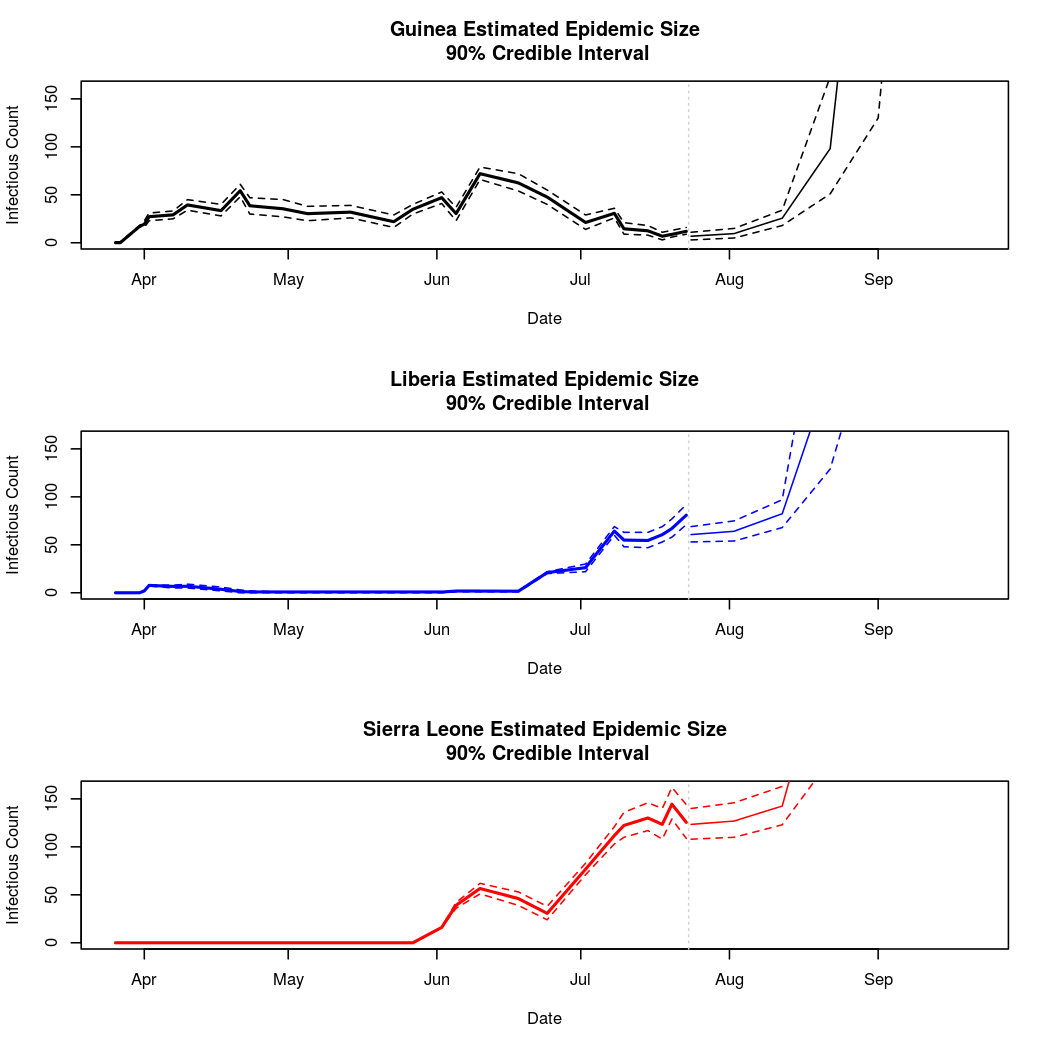
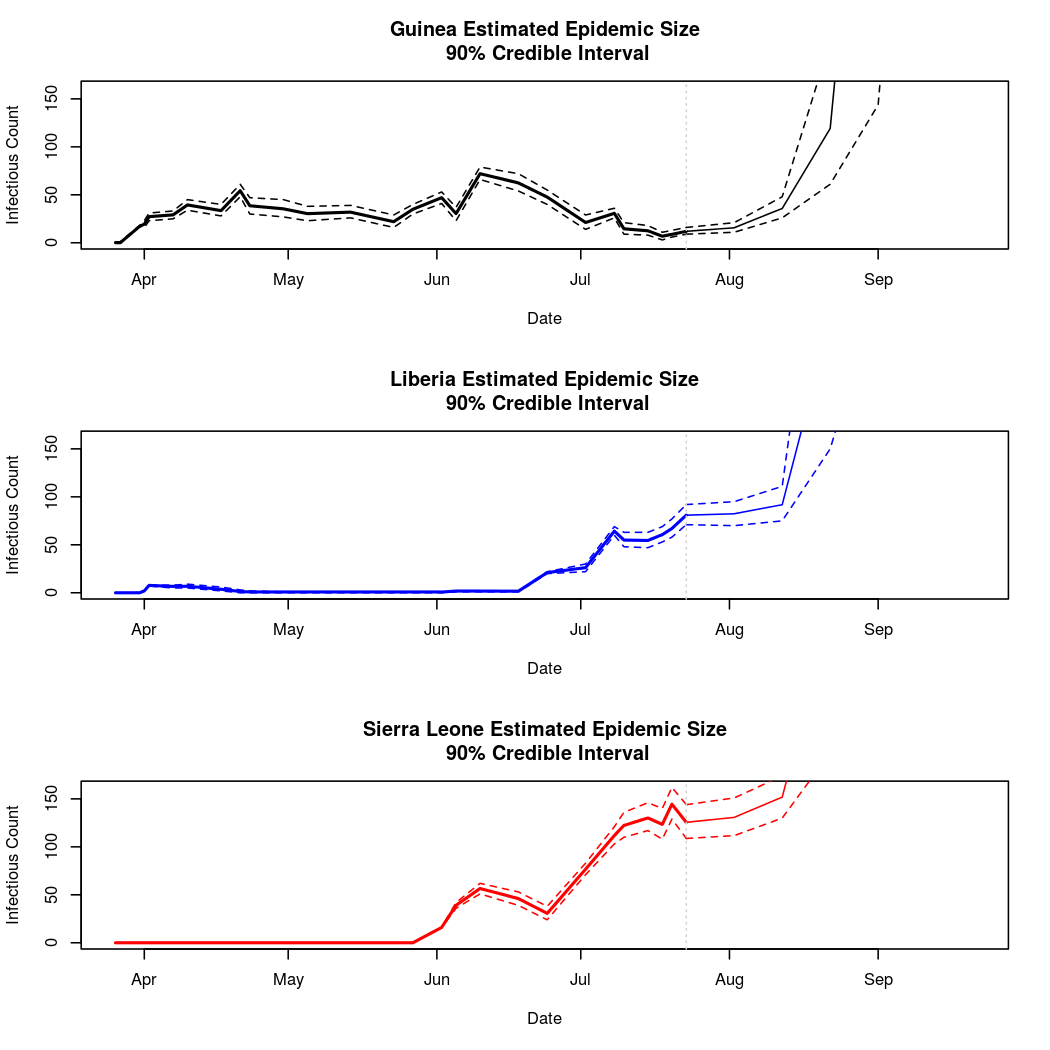
Update hosted ebola analysis

Changed region(s): [[0.64, 0.0914, 0.8229, 0.2438], [0.64, 0.4267, 0.7924, 0.5181], [0.64, 0.7314, 0.7619, 0.7924]]

diff --git a/doc/tutorials/Ebola2014/Ebola2014.html b/doc/tutorials/Ebola2014/Ebola2014.html
@@ -274,7 +274,7 @@ These represent cumulative counts, but because case reports can be revised downw
          <span class="hl kwc">lty</span><span class="hl std">=</span><span class="hl num">1</span><span class="hl std">,</span> <span class="hl kwc">lwd</span> <span class="hl std">=</span> <span class="hl num">2</span><span class="hl std">,</span>
          <span class="hl kwc">ylim</span> <span class="hl std">= ylim,</span> <span class="hl kwc">type</span> <span class="hl std">=</span> <span class="hl str">&quot;l&quot;</span>
          <span class="hl std">)</span>
-    <span class="hl kwd">abline</span><span class="hl std">(</span><span class="hl kwc">h</span> <span class="hl std">=</span> <span class="hl kwd">seq</span><span class="hl std">(</span><span class="hl num">1</span><span class="hl std">,</span> <span class="hl kwd">max</span><span class="hl std">(ylim),</span> <span class="hl num">10</span><span class="hl std">),</span> <span class="hl kwc">lty</span> <span class="hl std">=</span> <span class="hl num">2</span><span class="hl std">,</span> <span class="hl kwc">col</span> <span class="hl std">=</span> <span class="hl str">&quot;lightgrey&quot;</span><span class="hl std">)</span>
+    <span class="hl kwd">abline</span><span class="hl std">(</span><span class="hl kwc">h</span> <span class="hl std">=</span> <span class="hl kwd">seq</span><span class="hl std">(</span><span class="hl num">0</span><span class="hl std">,</span> <span class="hl num">50</span><span class="hl std">,</span> <span class="hl num">5</span><span class="hl std">),</span> <span class="hl kwc">lty</span> <span class="hl std">=</span> <span class="hl num">2</span><span class="hl std">,</span> <span class="hl kwc">col</span> <span class="hl std">=</span> <span class="hl str">&quot;lightgrey&quot;</span><span class="hl std">)</span>
     <span class="hl kwd">lines</span><span class="hl std">(rptDate, InfectionPerDay[,</span><span class="hl num">2</span><span class="hl std">],</span> <span class="hl kwc">col</span> <span class="hl std">=</span> <span class="hl str">&quot;blue&quot;</span><span class="hl std">,</span><span class="hl kwc">lty</span><span class="hl std">=</span><span class="hl num">2</span><span class="hl std">,</span> <span class="hl kwc">lwd</span> <span class="hl std">=</span> <span class="hl num">2</span><span class="hl std">)</span>
     <span class="hl kwd">lines</span><span class="hl std">(rptDate, InfectionPerDay[,</span><span class="hl num">3</span><span class="hl std">],</span> <span class="hl kwc">col</span> <span class="hl std">=</span> <span class="hl str">&quot;red&quot;</span><span class="hl std">,</span> <span class="hl kwc">lty</span> <span class="hl std">=</span> <span class="hl num">3</span><span class="hl std">,</span> <span class="hl kwc">lwd</span> <span class="hl std">=</span> <span class="hl num">2</span><span class="hl std">)</span>
     <span class="hl kwd">par</span><span class="hl std">(</span><span class="hl kwc">xaxt</span><span class="hl std">=</span><span class="hl str">&quot;n&quot;</span><span class="hl std">)</span>
@@ -1725,10 +1725,12 @@ chartParams.element = document.getElementById('zoom_map')
       <h3>Compartmental Models</h3>
       </a>
       <p>
-        Now that we've got data read in and made a couple of plots to ensure we haven't done anything to terribly stupid with it
+        Now that the data is read in (and now that we have several plots to suggest that we haven't done anything to terribly stupid with it)
         , let's do some compartmental epidemic modeling. Not only has Ebola been <a href="http://www.ncbi.nlm.nih.gov/pubmed/17156292">well modeled in the past</a> using compartmental modeling techniques, but this author happens to be working on a software library designed to fit compartmental models in the spatial SEIRS family. What a strange coincidence! Specifically, we'll be using heirarchical Bayesian estimation methods to fit a spatial SEIR model to the data.  
+        </p>
         <br/>
-        
+        <br/>
+        <p>
         While a full treatment of this field of epidemic modeling is (far) beyond the scope of this writing, the basic idea is pretty intuitive. In order to come up with a simplified model of a disease process, discrete disease states (aka, compartments) are defined. The most common of these are S, E, I, and R which stand for:<br>
       </p>
       <ul>
@@ -1738,8 +1740,10 @@ chartParams.element = document.getElementById('zoom_map')
         <li><strong>R</strong>emoved or recovered</li>
       </ul>
   <p>
-    This sequence traversed by members of a population (S to E to I to R) forms what we might call the temporal process model of our analysis. This analysis belongs to the stochastic branch of the compartmental modeling family, which has its roots in deterministic systems of ordinary and partial differential equations. In this framework, transitions between the compartments occur according to unknown probabilities. It is the S to E probability, which captures infection activity, into which we introduce spatial structure. Some details of this are given as comments to the code below, and more information than you probably want on the statistical particulars is available in <a href="https://github.com/grantbrown/libspatialSEIR/blob/master/doc/models/SEIR_Algo.pdf">this pdf document</a>. For now, suffice it to say that we'll place a simple spatial structure on the epidemic process which simply allows disease to spread between the three nations involved, and we'll try to estimate the strength of that relationship. Many other potential structures are possible, limited primarily by the ammount of additional research and data compilation you are willing to do. <br/>
-We're not going to do anything fancy with demographic information or public health intervention dates. Demographic parameters are relatively difficult to estimate here, as there are only three spatial units which are all from the same region. Intervention dates are more promising, but their inclusion requires much more background research than we have time for here. In the interest of simplicity and estimability, we'll just fit a different disease intensity parameter for each of the three countries in addition to as a set of basis functions to capture the temporal trend. 
+    This sequence, traversed by members of a population (S to E to I to R), forms what we might call the temporal process model of our analysis. This analysis belongs to the stochastic branch of the compartmental modeling family, which has its roots in deterministic systems of ordinary and partial differential equations. In the stochastic framework, transitions between the compartments occur according to unknown probabilities. It is the S to E probability, which captures infection activity, into which we introduce spatial structure. Some details of this are given as comments to the code below, and more information than you probably want on the statistical particulars is available in <a href="https://github.com/grantbrown/libspatialSEIR/blob/master/doc/models/Ebola2014Analysis.pdf">this pdf document</a>. For now, suffice it to say that we'll place a simple spatial structure on the epidemic process which simply allows disease to spread between the three nations involved, and we'll try to estimate the strength of that relationship. Many other potential structures are possible, limited primarily by the amount of additional research and data compilation one is willing to do. </p><br/><br/>
+<p>
+For the purposes of this analysis, we will not do anything fancy with demographic information or public health intervention dates. Demographic parameters are relatively difficult to estimate here, as there are only three spatial units which are all from the same region. Intervention dates are more promising, but their inclusion requires much more background research than we have time for here. In the interest of simplicity and estimability, we'll just fit a different disease intensity parameter for each of the three countries to capture aggregate differences in Ebola susceptibility in addition to using a set of basis functions to capture the 
+temporal trend. 
   </p>
     </div>
     <div class="col-sm-1">
@@ -1757,8 +1761,8 @@ We're not going to do anything fancy with demographic information or public heal
   </p>
   <ol>
     <li>The population sizes need to be determined.</li>
-    <li>Initial values for the four compartments must be determined.<li>
-    <li>The time points are not evenly spaced, so we need to define appropriate offset values to capture the ammount of aggregation performed (time between reports).</li>
+    <li>Initial values for the four compartments must be determined.</li>
+    <li>The time points are not evenly spaced, so we need to define appropriate offset values to capture the amount of aggregation performed (time between reports).</li>
     <li>We must define the spatial correlation structure.</li>
     <li>A set of basis functions needs to be chosen to capture the temporal trend.</li>
     <li>Prior parameters and parameter staring values must be specified for each <a href="http://en.wikipedia.org/wiki/Markov_chain_Monte_Carlo">chain.</a></li>
@@ -1767,6 +1771,7 @@ We're not going to do anything fancy with demographic information or public heal
   <p>
   Compartment starting values follow the usual convention of letting the entire initial population be divided into susceptibles and infectious individuals. The starting value for the number of infectious individuals was 86, the first infection count available in the data. Offsets are actually calculated in the first code block (above) as the differences between the report times. For temporal basis functions, orthogonal polynomials of degree three were used. Prior parameters for the E to I and I to R transitions were chosen based on well documented values for the average latent and infectious times, and the rest of the prior parameters were left vague. These decisions are addressed in more detail as comments to the code below. 
   </p>
+  <br/>
 <button class="btn btn-default code-button">Show/Hide Code Block</button>
       <div class="code-and-output-block" style="display:none">
 <div class="chunk" id="unnamed-chunk-9"><div class="rcode"><div class="source"><pre class="knitr r"><span class="hl com"># Define the simple &quot;distance&quot; matrix. There are 3 countries, all of which </span>
@@ -1933,7 +1938,7 @@ We're not going to do anything fancy with demographic information or public heal
 <p>
   With the set up out of the way, we can finally build the models. In order to assess convergence, we'll make three model objects - one for each MCMC run. 
 </p>
-      
+<br/>  
 <button class="btn btn-default code-button">Show/Hide Code Block</button>
       <div class="code-and-output-block" style="display:none">
 <div class="chunk" id="unnamed-chunk-10"><div class="rcode"><div class="source"><pre class="knitr r"><span class="hl std">SEIRmodels</span> <span class="hl kwb">=</span> <span class="hl kwd">list</span><span class="hl std">()</span>
@@ -2032,7 +2037,7 @@ We're not going to do anything fancy with demographic information or public heal
 <p>
   With the model objects created, we may perform some some short runs in order to choose sensible Metropolis tuning parameters. The following script uses the runSimulation function defined in the previous code block to do just that. 
 </p>
-      
+<br/>
 <button class="btn btn-default code-button">Show/Hide Code Block</button>
       <div class="code-and-output-block" style="display:none">
 <div class="chunk" id="unnamed-chunk-11"><div class="rcode"><div class="source"><pre class="knitr r"><span class="hl kwa">for</span> <span class="hl std">(i</span> <span class="hl kwa">in</span> <span class="hl num">1</span><span class="hl opt">:</span><span class="hl kwd">length</span><span class="hl std">(SEIRmodels))</span>
@@ -2082,7 +2087,7 @@ We're not going to do anything fancy with demographic information or public heal
       
 <p>Using these tuning parameters, we can now run the chains until convergence. 
 As before, we'll adjust the tuning parameters along the way. Astute readers may notice the frankly inconvenient number of samples requested, and will correctly infer that autocorrelation is currently a major problem for this library. While such autocorrelation does not impact the validity of estimates based on the converged chains, it does increase the required computation time. This is an area of active development for libspatialSEIR.</p>  
-      
+ <br/>    
 <button class="btn btn-default code-button">Show/Hide Code Block</button>
       <div class="code-and-output-block" style="display:none">
 <div class="chunk" id="unnamed-chunk-12"><div class="rcode"><div class="source"><pre class="knitr r"><span class="hl kwa">for</span> <span class="hl std">(i</span> <span class="hl kwa">in</span> <span class="hl num">1</span><span class="hl opt">:</span><span class="hl kwd">length</span><span class="hl std">(SEIRmodels))</span>
@@ -2099,11 +2104,11 @@ As before, we'll adjust the tuning parameters along the way. Astute readers may 
 <span class="hl std">}</span>
 </pre></div>
 <div class="output"><pre class="knitr r">## Running chain 1
-## Time elapsed: 13.974 minutes
+## Time elapsed: 14.233 minutes
 ## Running chain 2
-## Time elapsed: 13.987 minutes
+## Time elapsed: 14.005 minutes
 ## Running chain 3
-## Time elapsed: 14.088 minutes
+## Time elapsed: 14.168 minutes
 </pre></div>
 </div></div>
 </div>
@@ -2116,7 +2121,7 @@ indication that the samplers have indeed converged to the posterior distribution
 problem at hand. In the code below, we'll read in the MCMC output files created so far, plot the three chains for each of 
 several important parameters, and take a look at the Gelman and Rubin convergence diagnostic (which should be close to 1 if the chains have converged.)
 </p>
-
+<br/>
 <button class="btn btn-default code-button">Show/Hide Code Block</button>
       <div class="code-and-output-block" style="display:none">
 <div class="chunk" id="unnamed-chunk-13"><div class="rcode"><div class="source"><pre class="knitr r"><span class="hl com"># Read in the output files created above</span>
@@ -2194,7 +2199,7 @@ several important parameters, and take a look at the Gelman and Rubin convergenc
 <p>
   The convergence looks quite reasonable, so let's dissect the estimates a bit. 
 </p>
-
+<br/>
 <a id="analysis-1-estimates-sect" class="anchor">
 <h3>Estimated Epidemic Behavior</h3>
 </a>
@@ -2285,12 +2290,14 @@ and
 
  9.4 
 
-days. In reality, there is a lot 
+ (95% credible intervals). In reality, there is a lot 
 of variability in these times for Ebola, but these seem like reasonable estimates for the average values. <br/>
-
-We also notice that there is definitely non-zero spatial dependence (the distribution of the spatial dependence parameter is well separated from zero), indicating reasonably strong mixing between the populations. This is unsurprising, as the disease has in fact spread between all three nations. 
-<br/>
-
+</p><br/>
+<p>
+We also notice that there is definitely non-zero spatial dependence (the distribution of the spatial dependence parameter is well separated from zero), indicating significant mixing between the populations. This is unsurprising, as the disease has in fact spread between all three nations. 
+</p>
+<br/><br/>
+<p>
 It also appears that Guinea has the lowest estimated epidemic intensity, followed by Sierra Leone and Liberia, which have similar credible
 intervals for their intercept parameters.
 </p>
@@ -2342,8 +2349,8 @@ intervals for their intercept parameters.
 <h3>Basic Reproductive Number Calculation</h3>
 </a>
 <p>
-A common tool for describing the development and containment of an epidemic is a quantity known as the basic reproductive numer, or the basic reproductive ratio, or one of several other variants on that theme. The basic idea is to quantify how many secondary infections each infectious individual is expected to cause in a large, fully susceptible population. Naturally, when this ratio exceeds one we expect the epidemic to spread. Conversely, a basic reproductive number less than one indicates that a pathogen is more likely to die out. This software library doesn't yet compute the ratio automatically, but does provide what's known as the "next generation matrix" which can be used to quickly calculate the quantity. <br/>
-
+A common tool for describing the evolution of an epidemic is a quantity known as the basic reproductive numer, the basic reproductive ratio, or one of several other variants on that theme. The basic idea is to quantify how many secondary infections a single infectious individual is expected to cause in a large, fully susceptible population. Naturally, when this ratio exceeds one we expect the epidemic to spread. Conversely, a basic reproductive number less than one indicates that a pathogen is more likely to die out. This software library doesn't yet compute the ratio automatically, but does provide what's known as the "next generation matrix" which can be used to quickly calculate the quantity.</p> <br/><br/>
+<p>
 In addition to coming up with a point estimate of the ratio, it is helpful to quantify the uncertainty in the estimates obtained. The code below draws additional samples from the posterior distribution in order to estimate this uncertainty.
 </p>
 
@@ -2384,7 +2391,7 @@ In addition to coming up with a point estimate of the ratio, it is helpful to qu
 
 <div class="chunk" id="unnamed-chunk-25"><div class="rimage center"><img src="figure/unnamed-chunk-25.png" title="plot of chunk unnamed-chunk-25" alt="plot of chunk unnamed-chunk-25" class="plot" /></div></div>
 
-The dip in recent days in the estimated basic reproductive ratio is definitely a hopeful sign that public health interventions and education efforts have begun to change the epidemic dynamics. Notice, on the other hand, the high variability in May. This is an interesting result, and perhaps reflects the seemingly contradicting information from Guinea (where the epidemic continued to spread) and Liberia (where the epidemic briefly disappeared).<br/>
+The dip in recent days in the estimated basic reproductive ratio is definitely a hopeful sign that public health interventions and education efforts have begun to change the epidemic dynamics. Notice, on the other hand, the high variability throughout May. This is an interesting result, and perhaps reflects the seemingly contradicting information from Guinea (where the epidemic continued to spread) and Liberia (where the epidemic briefly disappeared).<br/>
 
 While the basic reproductive number is a useful quantity to know, it does not directly make any predictions about future epidemic behavior. In order to do that, we need to simulate epidemics  based on the MCMC samples we have obtained and summarize their variability over time. <br/>
  
@@ -2394,7 +2401,7 @@ While the basic reproductive number is a useful quantity to know, it does not di
 </a>
 <p>
  
- Currently the simulation required for epidemic prediction must be done "manually" by writing a bunch of R code. As the library develops, a simpler prediction interface is a high priority.  <br/> Below, we will attempt to predict the course of the epidemic through early fall. 
+ Currently the simulation required for epidemic prediction must be done "manually" by writing a bunch of R code. As the library develops, a simpler prediction interface is a high priority.  </p><br/><br/><p> Below, we will attempt to predict the course of the epidemic through early fall. 
  We must be cautious when making predictions about a chaotic process this far into the future. We must be particularly cautious because the basis chosen for the temporal trend in the epidemic intensity process was polynomial. While polynomial bases often provide a good fit to the data, they can behave unreasonably outside the range over which the model was fit (quadratic and cubic terms can get large very quickly). 
 </p>
 
@@ -2468,18 +2475,23 @@ While the basic reproductive number is a useful quantity to know, it does not di
              <span class="hl std">dataRow</span><span class="hl opt">$</span><span class="hl std">BetaP_SE_3,</span>
              <span class="hl std">dataRow</span><span class="hl opt">$</span><span class="hl std">BetaP_SE_4,</span>
              <span class="hl std">dataRow</span><span class="hl opt">$</span><span class="hl std">BetaP_SE_5)</span>
-    <span class="hl std">S0</span> <span class="hl kwb">=</span> <span class="hl kwd">c</span><span class="hl std">(dataRow</span><span class="hl opt">$</span><span class="hl std">S_0_23</span> <span class="hl opt">-</span> <span class="hl std">dataRow</span><span class="hl opt">$</span><span class="hl std">E_star_0_23,</span>
-           <span class="hl std">dataRow</span><span class="hl opt">$</span><span class="hl std">S_1_23</span> <span class="hl opt">-</span> <span class="hl std">dataRow</span><span class="hl opt">$</span><span class="hl std">E_star_1_23,</span>
-           <span class="hl std">dataRow</span><span class="hl opt">$</span><span class="hl std">S_2_23</span> <span class="hl opt">-</span> <span class="hl std">dataRow</span><span class="hl opt">$</span><span class="hl std">E_star_2_23)</span>
-    <span class="hl std">E0</span> <span class="hl kwb">=</span> <span class="hl kwd">c</span><span class="hl std">(dataRow</span><span class="hl opt">$</span><span class="hl std">E_0_23</span> <span class="hl opt">+</span> <span class="hl std">dataRow</span><span class="hl opt">$</span><span class="hl std">E_star_0_23</span> <span class="hl opt">-</span> <span class="hl std">dataRow</span><span class="hl opt">$</span><span class="hl std">I_star_0_23,</span>
-           <span class="hl std">dataRow</span><span class="hl opt">$</span><span class="hl std">E_1_23</span> <span class="hl opt">+</span> <span class="hl std">dataRow</span><span class="hl opt">$</span><span class="hl std">E_star_1_23</span> <span class="hl opt">-</span> <span class="hl std">dataRow</span><span class="hl opt">$</span><span class="hl std">I_star_1_23,</span>
-           <span class="hl std">dataRow</span><span class="hl opt">$</span><span class="hl std">E_2_23</span> <span class="hl opt">+</span> <span class="hl std">dataRow</span><span class="hl opt">$</span><span class="hl std">E_star_2_23</span> <span class="hl opt">-</span> <span class="hl std">dataRow</span><span class="hl opt">$</span><span class="hl std">I_star_2_23)</span>
-    <span class="hl std">I0</span> <span class="hl kwb">=</span> <span class="hl kwd">c</span><span class="hl std">(dataRow</span><span class="hl opt">$</span><span class="hl std">I_0_23</span> <span class="hl opt">+</span> <span class="hl std">dataRow</span><span class="hl opt">$</span><span class="hl std">I_star_0_23</span> <span class="hl opt">-</span> <span class="hl std">dataRow</span><span class="hl opt">$</span><span class="hl std">R_star_0_23,</span>
-           <span class="hl std">dataRow</span><span class="hl opt">$</span><span class="hl std">I_1_23</span> <span class="hl opt">+</span> <span class="hl std">dataRow</span><span class="hl opt">$</span><span class="hl std">I_star_1_23</span> <span class="hl opt">-</span> <span class="hl std">dataRow</span><span class="hl opt">$</span><span class="hl std">R_star_1_23,</span>
-           <span class="hl std">dataRow</span><span class="hl opt">$</span><span class="hl std">I_2_23</span> <span class="hl opt">+</span> <span class="hl std">dataRow</span><span class="hl opt">$</span><span class="hl std">I_star_2_23</span> <span class="hl opt">-</span> <span class="hl std">dataRow</span><span class="hl opt">$</span><span class="hl std">R_star_2_23)</span>
-    <span class="hl std">R0</span> <span class="hl kwb">=</span> <span class="hl kwd">c</span><span class="hl std">(dataRow</span><span class="hl opt">$</span><span class="hl std">R_0_23</span> <span class="hl opt">+</span> <span class="hl std">dataRow</span><span class="hl opt">$</span><span class="hl std">R_star_0_23,</span>
-           <span class="hl std">dataRow</span><span class="hl opt">$</span><span class="hl std">R_1_23</span> <span class="hl opt">+</span> <span class="hl std">dataRow</span><span class="hl opt">$</span><span class="hl std">R_star_1_23,</span>
-           <span class="hl std">dataRow</span><span class="hl opt">$</span><span class="hl std">R_2_23</span> <span class="hl opt">+</span> <span class="hl std">dataRow</span><span class="hl opt">$</span><span class="hl std">R_star_2_23)</span>
+    <span class="hl com">#S0 = c(dataRow$S_0_26 - dataRow$E_star_0_26,</span>
+    <span class="hl com">#       dataRow$S_1_26 - dataRow$E_star_1_26,</span>
+    <span class="hl com">#       dataRow$S_2_26 - dataRow$E_star_2_26)</span>
+    <span class="hl com">#E0 = c(dataRow$E_0_26 + dataRow$E_star_0_26 - dataRow$I_star_0_26,</span>
+    <span class="hl com">#       dataRow$E_1_26 + dataRow$E_star_1_26 - dataRow$I_star_1_26,</span>
+    <span class="hl com">#       dataRow$E_2_26 + dataRow$E_star_2_26 - dataRow$I_star_2_26)</span>
+    <span class="hl com">#I0 = c(dataRow$I_0_26 + dataRow$I_star_0_26 - dataRow$R_star_0_26,</span>
+    <span class="hl com">#       dataRow$I_1_26 + dataRow$I_star_1_26 - dataRow$R_star_1_26,</span>
+    <span class="hl com">#       dataRow$I_2_26 + dataRow$I_star_2_26 - dataRow$R_star_2_26)</span>
+    <span class="hl com">#R0 = c(dataRow$R_0_26 + dataRow$R_star_0_26,</span>
+    <span class="hl com">#       dataRow$R_1_26 + dataRow$R_star_1_26,</span>
+    <span class="hl com">#       dataRow$R_2_26 + dataRow$R_star_2_26)</span>
+    <span class="hl std">S0</span> <span class="hl kwb">=</span> <span class="hl kwd">c</span><span class="hl std">(dataRow</span><span class="hl opt">$</span><span class="hl std">S_0_26,dataRow</span><span class="hl opt">$</span><span class="hl std">S_1_26,dataRow</span><span class="hl opt">$</span><span class="hl std">S_2_26)</span>
+    <span class="hl std">E0</span> <span class="hl kwb">=</span> <span class="hl kwd">c</span><span class="hl std">(dataRow</span><span class="hl opt">$</span><span class="hl std">E_0_26,dataRow</span><span class="hl opt">$</span><span class="hl std">E_1_26,dataRow</span><span class="hl opt">$</span><span class="hl std">E_2_26)</span>
+    <span class="hl std">I0</span> <span class="hl kwb">=</span> <span class="hl kwd">c</span><span class="hl std">(dataRow</span><span class="hl opt">$</span><span class="hl std">I_0_26,dataRow</span><span class="hl opt">$</span><span class="hl std">I_1_26,dataRow</span><span class="hl opt">$</span><span class="hl std">I_2_26)</span>
+    <span class="hl std">R0</span> <span class="hl kwb">=</span> <span class="hl kwd">c</span><span class="hl std">(dataRow</span><span class="hl opt">$</span><span class="hl std">R_0_26,dataRow</span><span class="hl opt">$</span><span class="hl std">R_1_26,dataRow</span><span class="hl opt">$</span><span class="hl std">R_2_26)</span>
+
     <span class="hl kwd">return</span><span class="hl std">(</span><span class="hl kwd">predictEpidemic</span><span class="hl std">(beta,</span>
                            <span class="hl std">X.pred,</span>
                            <span class="hl std">dataRow</span><span class="hl opt">$</span><span class="hl std">gamma_ei,</span>
@@ -2498,7 +2510,7 @@ While the basic reproductive number is a useful quantity to know, it does not di
 
 
 
-<span class="hl std">pred.dates</span> <span class="hl kwb">=</span> <span class="hl kwd">c</span><span class="hl std">(rptDate[(</span><span class="hl kwd">which.max</span><span class="hl std">(rptDate))]</span> <span class="hl opt">+</span> <span class="hl num">1</span><span class="hl std">,</span>
+<span class="hl std">pred.dates</span> <span class="hl kwb">=</span> <span class="hl kwd">c</span><span class="hl std">(rptDate[(</span><span class="hl kwd">which.max</span><span class="hl std">(rptDate))],</span>
                <span class="hl std">rptDate[(</span><span class="hl kwd">which.max</span><span class="hl std">(rptDate))]</span> <span class="hl opt">+</span> <span class="hl kwd">seq</span><span class="hl std">(</span><span class="hl num">10</span><span class="hl std">,</span><span class="hl num">60</span><span class="hl std">,</span><span class="hl num">10</span><span class="hl std">))</span>
 <span class="hl std">pred.xlim</span> <span class="hl kwb">=</span> <span class="hl kwd">c</span><span class="hl std">(</span><span class="hl kwd">min</span><span class="hl std">(rptDate),</span> <span class="hl kwd">max</span><span class="hl std">(pred.dates))</span>
 <span class="hl std">lastIdx</span> <span class="hl kwb">=</span> <span class="hl kwd">nrow</span><span class="hl std">(SEIRmodels[[</span><span class="hl num">1</span><span class="hl std">]]</span><span class="hl opt">$</span><span class="hl std">I)</span>
@@ -2585,6 +2597,7 @@ While the basic reproductive number is a useful quantity to know, it does not di
 <div class="chunk" id="unnamed-chunk-27"><div class="rimage center"><img src="figure/unnamed-chunk-27.png" title="plot of chunk unnamed-chunk-27" alt="plot of chunk unnamed-chunk-27" class="plot" /></div></div>
 
 <p>It looks like our worries about polynomial basis functions were well founded. While these predictions are likely acceptable for several days or weeks after the currently available data, they clearly become dominated by higher order polynomial terms as time goes on. The behavior of the epidemic so far does not support these large swings in epidemic behavior, so we can be fairly certain that these long term predictions are extrapolation errors. Analysis 2 will consider the results of using a natural spline basis for this process instead. Spline bases extrapolate linearly, and so are less prone to extreme extrapolation errors. 
+</p><br/>
     </div>
     <div class="col-sm-1">
   </div>
@@ -2746,11 +2759,11 @@ While the basic reproductive number is a useful quantity to know, it does not di
 <span class="hl std">}</span>
 </pre></div>
 <div class="output"><pre class="knitr r">## Running in chain 1
-## Time elapsed: 14.077 minutes
+## Time elapsed: 14.087 minutes
 ## Running in chain 2
-## Time elapsed: 14.071 minutes
+## Time elapsed: 14.104 minutes
 ## Running in chain 3
-## Time elapsed: 14.002 minutes
+## Time elapsed: 14.159 minutes
 </pre></div>
 <div class="source"><pre class="knitr r"><span class="hl std">chain1</span> <span class="hl kwb">=</span> <span class="hl kwd">read.csv</span><span class="hl std">(</span><span class="hl str">&quot;chain_output_ebola_4.txt&quot;</span><span class="hl std">)</span>
 <span class="hl std">chain2</span> <span class="hl kwb">=</span> <span class="hl kwd">read.csv</span><span class="hl std">(</span><span class="hl str">&quot;chain_output_ebola_5.txt&quot;</span><span class="hl std">)</span>
@@ -2907,18 +2920,18 @@ While the basic reproductive number is a useful quantity to know, it does not di
 
 <span class="hl std">figure11</span> <span class="hl kwb">=</span> <span class="hl kwa">function</span><span class="hl std">()</span>
 <span class="hl std">{</span>
-  <span class="hl std">maxI</span> <span class="hl kwb">=</span> <span class="hl kwd">max</span><span class="hl std">(</span><span class="hl kwd">c</span><span class="hl std">(Guinea.I.Est, Liberia.I.Est, SierraLeone.I.Est))</span>
   <span class="hl std">preds</span> <span class="hl kwb">=</span> <span class="hl kwd">lapply</span><span class="hl std">((</span><span class="hl kwd">nrow</span><span class="hl std">(chain1)</span> <span class="hl opt">-</span> <span class="hl kwd">floor</span><span class="hl std">(</span><span class="hl kwd">nrow</span><span class="hl std">(chain1)</span><span class="hl opt">/</span><span class="hl num">2</span><span class="hl std">))</span><span class="hl opt">:</span>
                   <span class="hl kwd">nrow</span><span class="hl std">(chain1), predict.i)</span>
 
 
-  <span class="hl std">pred.dates</span> <span class="hl kwb">=</span> <span class="hl kwd">c</span><span class="hl std">(rptDate[(</span><span class="hl kwd">which.max</span><span class="hl std">(rptDate))]</span> <span class="hl opt">+</span> <span class="hl num">1</span><span class="hl std">,</span>
+  <span class="hl std">pred.dates</span> <span class="hl kwb">=</span> <span class="hl kwd">c</span><span class="hl std">(rptDate[(</span><span class="hl kwd">which.max</span><span class="hl std">(rptDate))],</span>
                  <span class="hl std">rptDate[(</span><span class="hl kwd">which.max</span><span class="hl std">(rptDate))]</span> <span class="hl opt">+</span> <span class="hl kwd">seq</span><span class="hl std">(</span><span class="hl num">10</span><span class="hl std">,</span><span class="hl num">60</span><span class="hl std">,</span><span class="hl num">10</span><span class="hl std">))</span>
   <span class="hl std">pred.xlim</span> <span class="hl kwb">=</span> <span class="hl kwd">c</span><span class="hl std">(</span><span class="hl kwd">min</span><span class="hl std">(rptDate),</span> <span class="hl kwd">max</span><span class="hl std">(pred.dates))</span>
   <span class="hl std">lastIdx</span> <span class="hl kwb">=</span> <span class="hl kwd">nrow</span><span class="hl std">(SEIRmodels.spline[[</span><span class="hl num">1</span><span class="hl std">]]</span><span class="hl opt">$</span><span class="hl std">I)</span>
   <span class="hl std">Guinea.Pred</span> <span class="hl kwb">=</span> <span class="hl std">preds[[</span><span class="hl num">1</span><span class="hl std">]]</span><span class="hl opt">$</span><span class="hl std">I[,</span><span class="hl num">1</span><span class="hl std">]</span>
   <span class="hl std">Liberia.Pred</span> <span class="hl kwb">=</span> <span class="hl std">preds[[</span><span class="hl num">1</span><span class="hl std">]]</span><span class="hl opt">$</span><span class="hl std">I[,</span><span class="hl num">2</span><span class="hl std">]</span>
   <span class="hl std">SierraLeone.Pred</span> <span class="hl kwb">=</span> <span class="hl std">preds[[</span><span class="hl num">1</span><span class="hl std">]]</span><span class="hl opt">$</span><span class="hl std">I[,</span><span class="hl num">3</span><span class="hl std">]</span>
+
 
   <span class="hl std">breakpoint</span> <span class="hl kwb">=</span> <span class="hl kwd">mean</span><span class="hl std">(</span><span class="hl kwd">c</span><span class="hl std">(</span><span class="hl kwd">max</span><span class="hl std">(rptDate),</span> <span class="hl kwd">min</span><span class="hl std">(pred.dates)))</span>
 
@@ -2941,6 +2954,8 @@ While the basic reproductive number is a useful quantity to know, it does not di
 
   <span class="hl std">SierraLeone.LB</span> <span class="hl kwb">=</span> <span class="hl kwd">apply</span><span class="hl std">(SierraLeone.Pred,</span> <span class="hl num">2</span><span class="hl std">, quantile,</span> <span class="hl kwc">probs</span> <span class="hl std">=</span> <span class="hl kwd">c</span><span class="hl std">(</span><span class="hl num">0.05</span><span class="hl std">))</span>
   <span class="hl std">SierraLeone.UB</span> <span class="hl kwb">=</span> <span class="hl kwd">apply</span><span class="hl std">(SierraLeone.Pred,</span> <span class="hl num">2</span><span class="hl std">, quantile,</span> <span class="hl kwc">probs</span> <span class="hl std">=</span> <span class="hl kwd">c</span><span class="hl std">(</span><span class="hl num">0.95</span><span class="hl std">))</span>
+
+  <span class="hl std">maxI</span> <span class="hl kwb">=</span> <span class="hl kwd">max</span><span class="hl std">(</span><span class="hl kwd">c</span><span class="hl std">(</span><span class="hl kwd">max</span><span class="hl std">(</span><span class="hl kwd">c</span><span class="hl std">(Guinea.I.Est, Liberia.I.Est, SierraLeone.I.Est)), Guinea.UB, Liberia.UB, SierraLeone.UB))</span>
 
   <span class="hl com">## Guinea </span>
   <span class="hl kwd">par</span><span class="hl std">(</span><span class="hl kwc">mfrow</span> <span class="hl std">=</span> <span class="hl kwd">c</span><span class="hl std">(</span><span class="hl num">3</span><span class="hl std">,</span><span class="hl num">1</span><span class="hl std">))</span>
@@ -3003,11 +3018,12 @@ While the basic reproductive number is a useful quantity to know, it does not di
 
 <br/>
 
-<p>The estimated basic reproductive number and associated variability is virtually unchanged:</p>
 <a id="analysis-2-r0-sect" class="anchor"><h3>Basic Reproductive Number Calculation</h3></a>
+
+<p>The estimated basic reproductive number and associated variability is virtually unchanged:</p><br/>
 <div class="chunk" id="unnamed-chunk-31"><div class="rimage center"><img src="figure/unnamed-chunk-31.png" title="plot of chunk unnamed-chunk-31" alt="plot of chunk unnamed-chunk-31" class="plot" /></div></div>
 
-<a id="analysis-2-prediction-sect" class="anchor"><h3>Epidemic Prediction</h3></a>
+<a id="analysis-2-prediction-sect" class="anchor"><h3>Epidemic Prediction</h3></a><br/>
 <div class="chunk" id="unnamed-chunk-32"><div class="rimage center"><img src="figure/unnamed-chunk-32.png" title="plot of chunk unnamed-chunk-32" alt="plot of chunk unnamed-chunk-32" class="plot" /></div></div>
 
 
@@ -3018,19 +3034,19 @@ While the basic reproductive number is a useful quantity to know, it does not di
 
 <a id = "conclusions-sect" class="anchor"><h3>Conclusions</h3></a>
 <br/>
-As the two sets of basis functions give similar answers in the near future, it seems likely that the epidemic will continue at a steady or slightly increasing rate for at least the next few weeks, though we must still be careful projecting too far into the future. Even so, the current evidence is <i>not inconsistent</i> with the possibility that the disease will soon start the slow process of dying out. The next few weeks will be critical in falsifying of validating this tentative prediction, and as a result providing a demonstration of the benefits and potential drawbacks of the application of simple temporal modeling to complex international health problems. <br/>
+<p>
+As the two sets of basis functions give similar answers in the near future, it seems likely that the epidemic will continue at a steady or slightly increasing rate for at least the next few weeks, though we must still be careful projecting too far into the future. Even so, the current evidence is <i>not inconsistent</i> with the possibility that the disease will soon start the slow process of dying out. The next few weeks will be critical in falsifying or validating this tentative prediction, and as a result providing a demonstration of the benefits and potential drawbacks of the application of simple temporal modeling to complex international health problems.</p> <br/>
 
-That wraps up the analyses for now. This document will continue to be updated as the epidemic progresses, reflecting new data and perhaps additional analysis techniques. As the document is tracked via source control it will be easy to see how well past predictions held up and how they change in response to new information. Questions and comments can be shared <a href="https://github.com/grantbrown/libspatialSEIR/issues/1">here</a> <br/>
-</p>      
+<p>
+That wraps up the analyses for now. This document will continue to be updated as the epidemic progresses, reflecting new data and perhaps additional analysis techniques. As the document is tracked via source control it will be easy to see how well past predictions held up and how they change in response to new information. Questions and comments can be shared <a href="https://github.com/grantbrown/libspatialSEIR/issues/1">here</a> 
+</p><br/>
       
       </div>
     <div class="col-sm-1">
     </div>
   </div>
-  
 </div>
-     <a id="dummy_anchor" class = "anchor"></a>
-    
+    <a id="dummy_anchor" class = "anchor"></a>  
     <script type="text/javascript">
       $(".code-button").click(function(){
           $(this).next().animate({

diff --git a/doc/tutorials/Ebola2014/css/ebola.css b/doc/tutorials/Ebola2014/css/ebola.css
@@ -26,6 +26,7 @@ img {
 }
 
 svg.datamap{
+	height:400px;
     background:rgb(28,107,160);
 }
 
@@ -33,4 +34,8 @@ svg.datamap{
     padding-top: 40px;
     margin-top: -40px;
     display: inline-block; /* required for webkit browsers */
+}
+
+p {
+    text-indent: 5em;
 }
